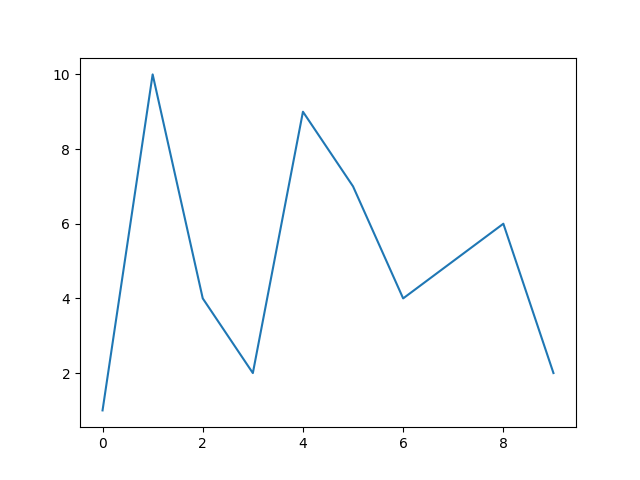
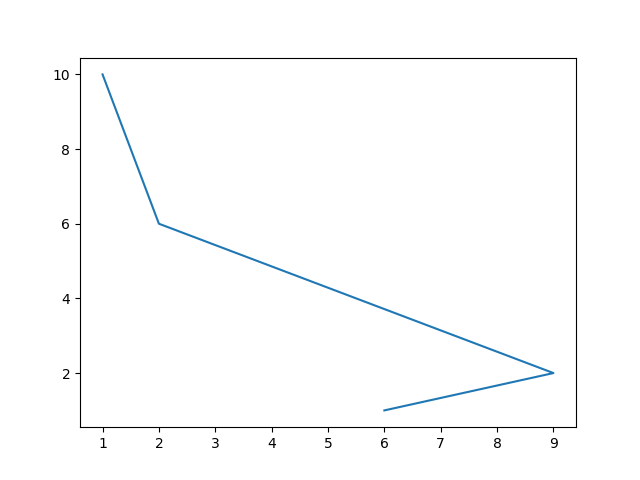
add in direct main

diff --git a/deploy-lr-project/templates/index.html b/deploy-lr-project/templates/index.html
@@ -1,6 +1,70 @@
+<!DOCTYPE html>
+<html>
+<head>
+    <meta charset="UTF-8">
+    <title>My Machine Learning Model</title>
+
+    <!-- Quick Start: CSS -->
+    <link href="https://cdn.jsdelivr.net/npm/bootstrap@5.1.3/dist/css/bootstrap.min.css" rel="stylesheet"
+          integrity="sha384-1BmE4kWBq78iYhFldvKuhfTAU6auU8tT94WrHftjDbrCEXSU1oBoqyl2QvZ6jIW3" crossorigin="anonymous">
+
+    <!-- Nav Bar -->
+    <nav class="navbar navbar-expand-lg navbar-dark bg-dark">
+        <div class="container-fluid">
+            <a class="navbar-brand" href="#">Навигация</a>
+            <button class="navbar-toggler" type="button" data-bs-toggle="collapse"
+                    data-bs-target="#navbarSupportedContent" aria-controls="navbarSupportedContent"
+                    aria-expanded="false" aria-label="Toggle navigation">
+                <span class="navbar-toggler-icon"></span>
+            </button>
+            <div class="collapse navbar-collapse" id="navbarSupportedContent">
+                <ul class="navbar-nav me-auto mb-2 mb-lg-0">
+                    <li class="nav-item">
+                        <a class="nav-link active" aria-current="page" href="#">Домой</a>
+                    </li>
+                    <li class="nav-item">
+                        <a class="nav-link" href="https://github.com/Andrej-Ilin">GitHub</a>
+                    </li>
+                    <li class="nav-item dropdown">
+                        <a class="nav-link dropdown-toggle" href="#" id="navbarDropdown" role="button"
+                           data-bs-toggle="dropdown" aria-expanded="false">
+                            Dropdown
+                        </a>
+                        <ul class="dropdown-menu" aria-labelledby="navbarDropdown">
+                            <li><a class="dropdown-item" href="#">Action</a></li>
+                            <li><a class="dropdown-item" href="#">Another action</a></li>
+                            <li>
+                                <hr class="dropdown-divider">
+                            </li>
+                            <li><a class="dropdown-item" href="#">Something else here</a></li>
+                        </ul>
+                    </li>
+                    <li class="nav-item">
+                        <a class="nav-link disabled">Disabled</a>
+                    </li>
+                </ul>
+                <form class="d-flex">
+                    <input class="form-control me-2" type="search" placeholder="Search" aria-label="Search">
+                    <button class="btn btn-outline-success" type="submit">Search</button>
+                </form>
+            </div>
+        </div>
+    </nav>
+
+</head>
+<body>
 <div class="">
     <form class="" action="{{url_for('index')}}" method="post" enctype="multipart/form-data">
         <input type="file" name="csvfile" value="">
         <input type="submit" name="" value="Submit">
+<!--        <input type="text" name="variable" value="">-->
+<!--        <input type="submit" name="" value="Submit">-->
+
+        <p></p>
+        <img src="{{ image }}" alt="">
+        <p>Grafik</p>
     </form>
 </div>
+</body>
+
+</html>

diff --git a/deploy-lr-project/app.py b/deploy-lr-project/app.py
@@ -2,6 +2,7 @@ from flask import Flask, render_template, request
 import os
 import pandas as pd
 import matplotlib.pyplot as plt
+import seaborn as sns
 from glob import glob
 
 app = Flask(__name__)  # create an app instance
@@ -15,26 +16,30 @@ def index():
             os.mkdir('static')
         filepath = os.path.join('static', file.filename)
         file.save(filepath)
-        return 'The file name of the uploaded file is: {}'.format(file.filename)
-    return render_template('index.html')
 
-
-@app.route('/dash', methods=['GET', 'POST'])
-def dash():
     if request.method == 'POST':
-        variable = request.form['variable']
-        file_old = os.path.join("C:/Users/DS_PC/PycharmProjects/irkut2/deploy-lr-project/static/", "data.csv")
-        file_new = os.path.join("C:/Users/DS_PC/PycharmProjects/irkut2/deploy-lr-project/static/", "datas.csv")
+        # variable = request.form['variable']
+        path = "C:/Users/DS_PC/PycharmProjects/irkut2/deploy-lr-project/static/"
+        file_old = os.path.join(path, f'{file.filename}')
+        file_new = os.path.join(path, "data.csv")
         file = os.rename(file_old, file_new)
-        # print(file.name)
-        print('------------------------------------------------')
-        data = pd.read_csv('static/datas.csv')  # возможно прийдется взять др. имя - file.filename
-        plt.plot(data[variable])
+        data = pd.read_csv('static/data.csv')  # возможно прийдется взять др. имя - file.filename
+
+        plt.plot(data.loc[0], data.loc[1])
+        # sns.pairplot(data, hue=data.loc[0])
         imagepath = os.path.join('static', 'image' + '.png')
         plt.savefig(imagepath)
-        return render_template('image.html', image=imagepath)
-    return render_template('dash.html')
 
+        if os.path.isfile(path+'data.csv'):
+            os.remove(path+'data.csv') # +добавить удаление графика после показа
+        return render_template('index.html', image=imagepath)
+    return render_template('index.html')
+# @app.route('/home', methods=['GET', 'POST'])
+# def home():
+#     if request.method == 'POST':
+#         request.form
+#     path = "C:/Users/DS_PC/PycharmProjects/irkut2/deploy-lr-project/static/"
+#     os.remove(path)
 
 if __name__ == "__main__":  # on running python app.py
     app.run(debug=True)  # run the flask app
